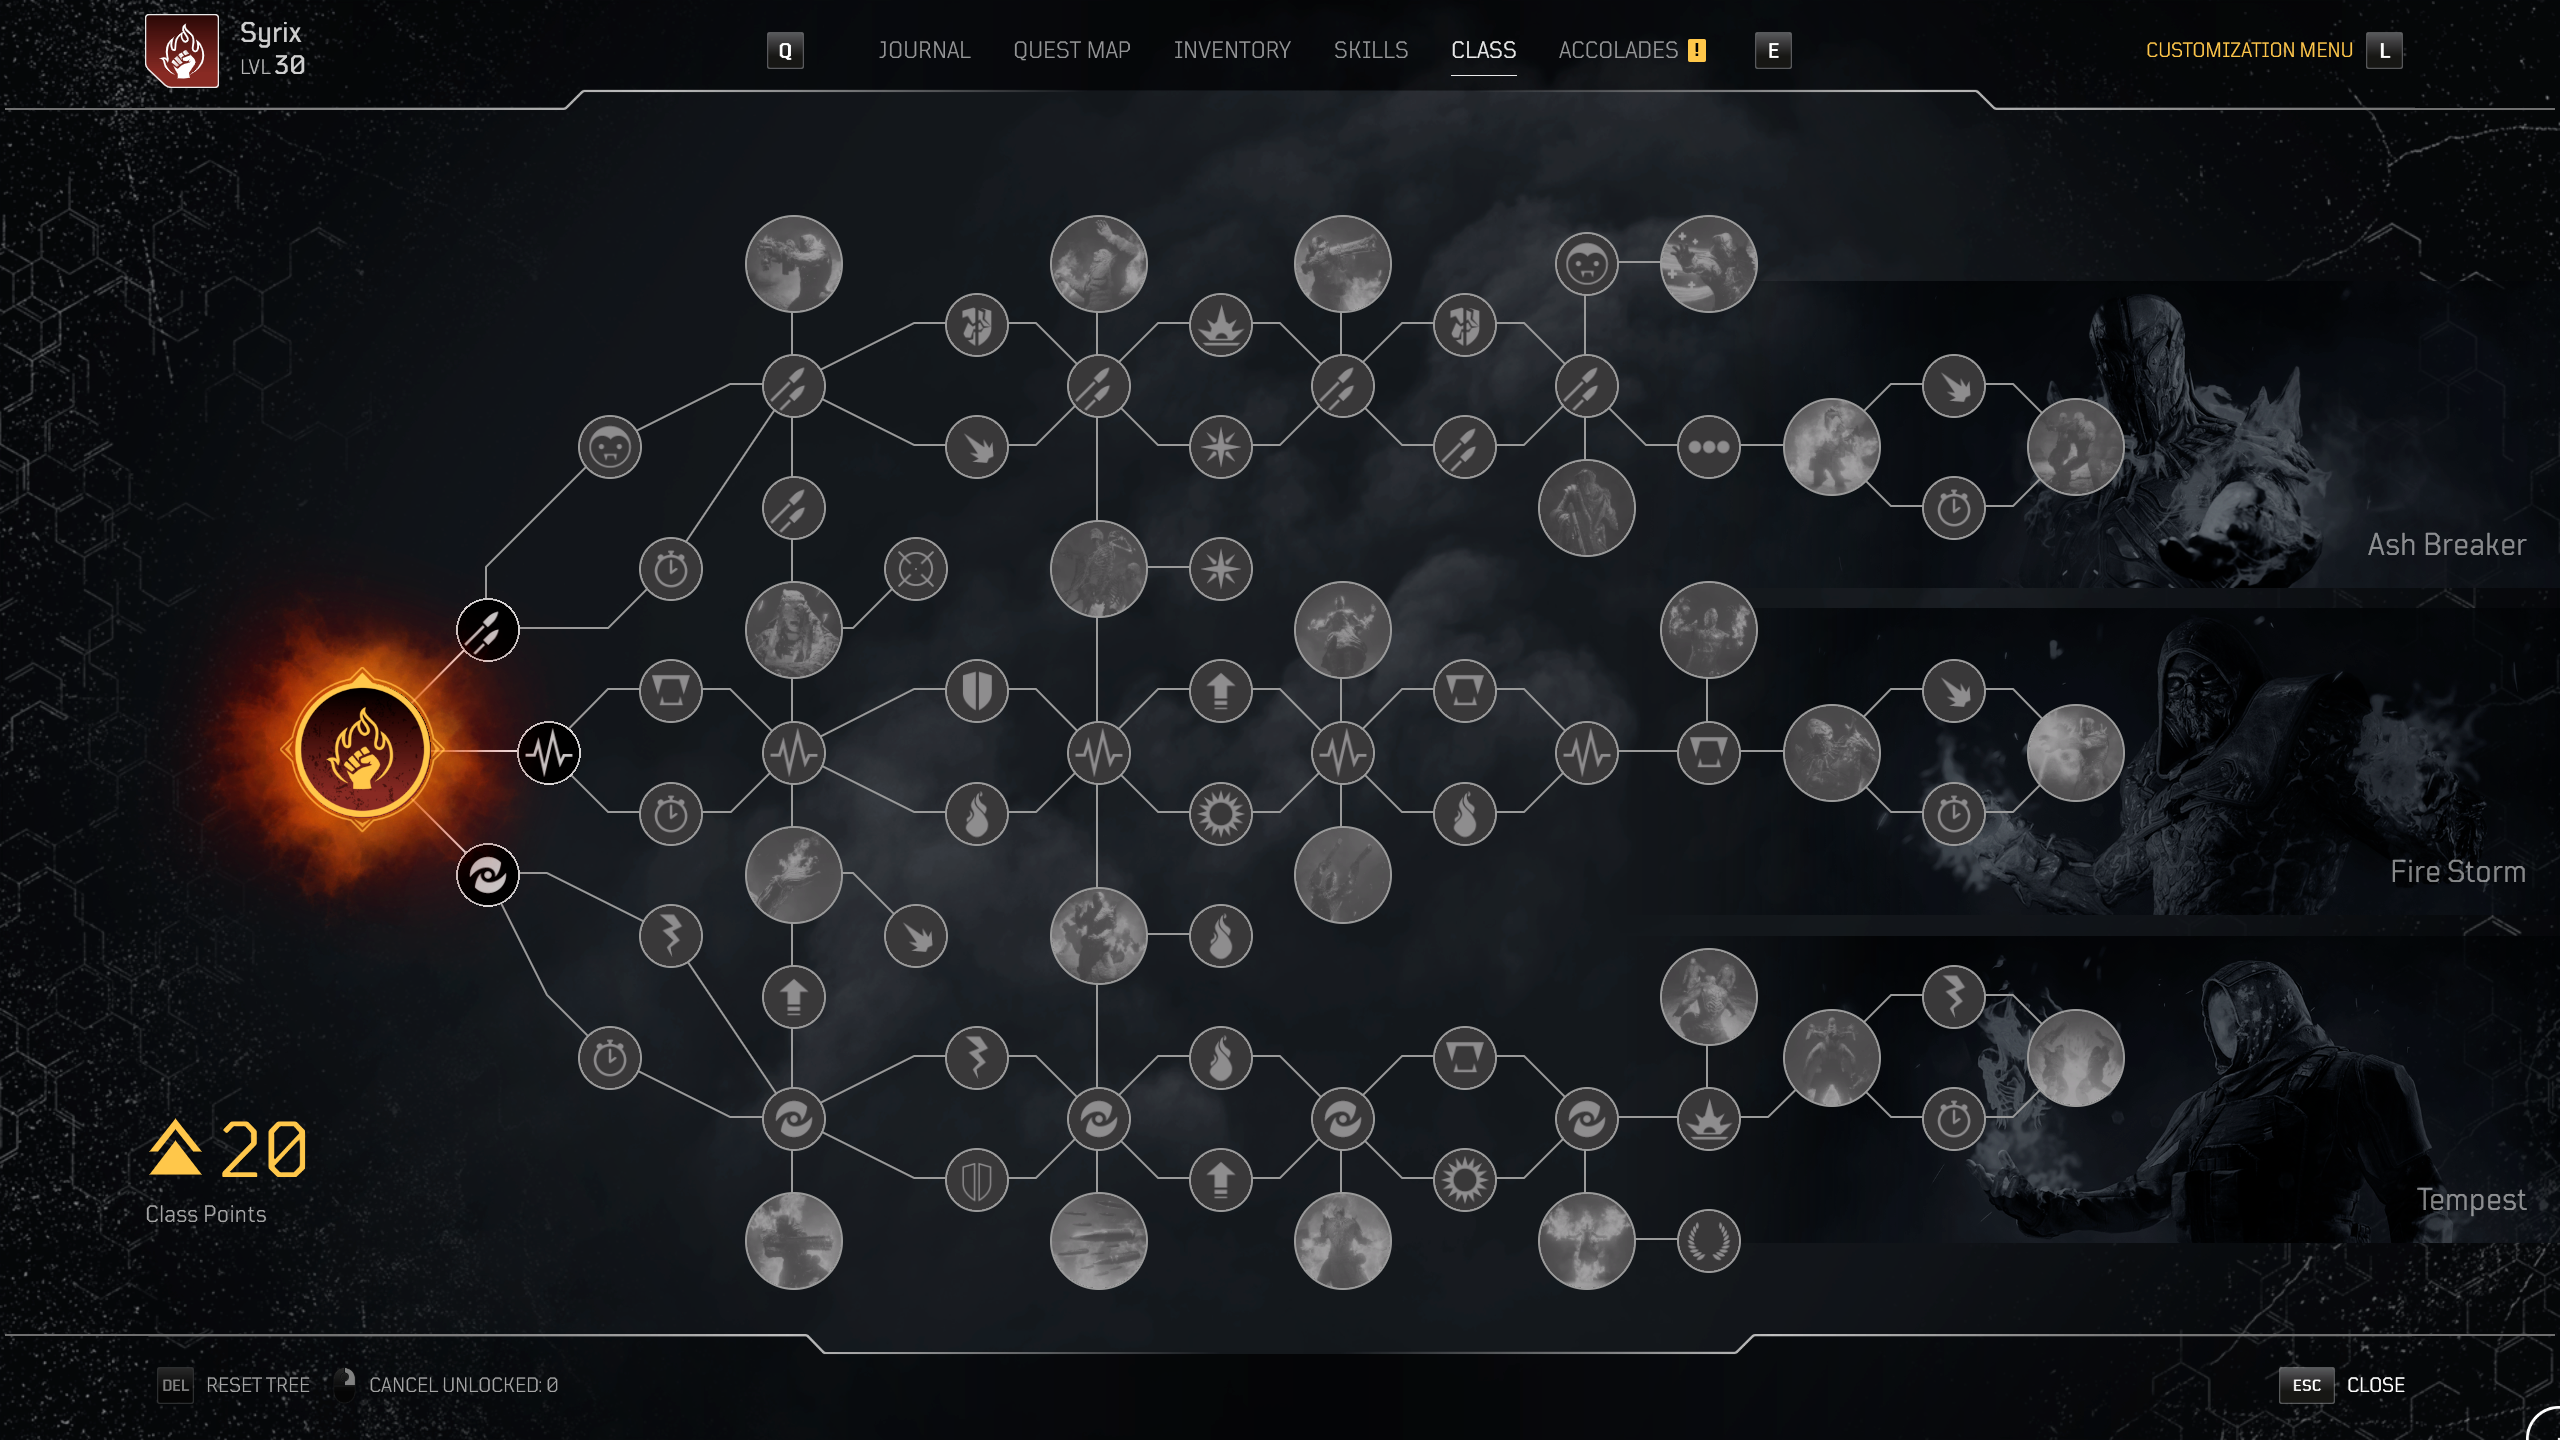
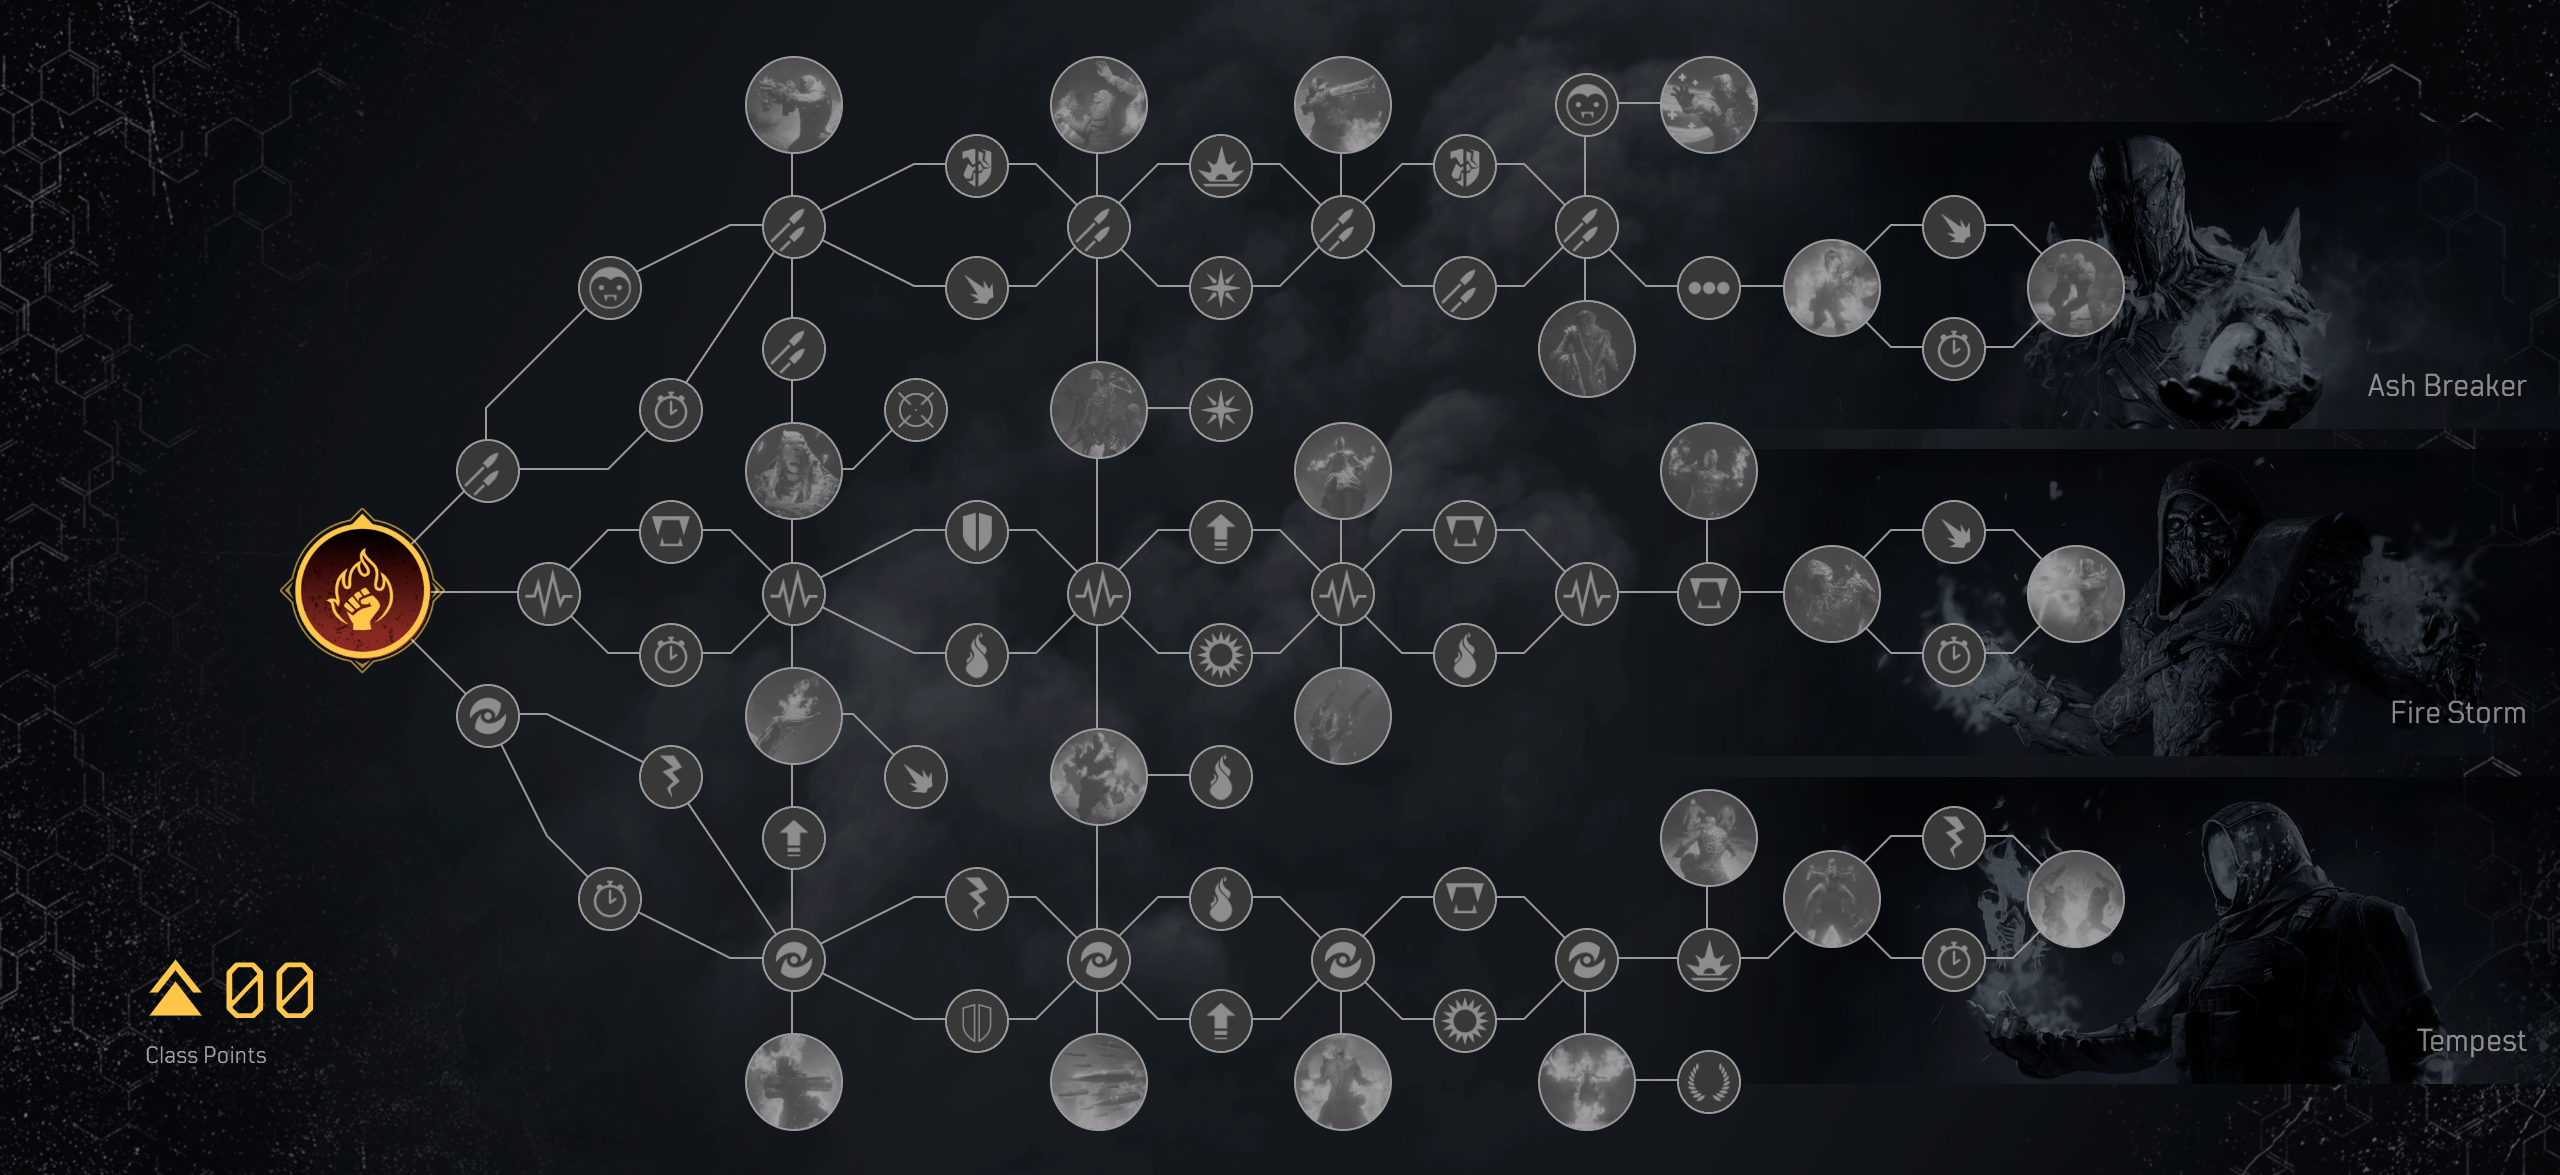
Implement skill tree and add images

diff --git a/pages/posts/new.js b/pages/posts/new.js
@@ -67,19 +67,58 @@ class New extends React.Component {
       (classChoice) => classChoice.node_id === skillId
     )[0].prev_nodes;
 
-    let checker = (arr, target) => target.every((v) => arr.includes(v));
+    const nextSkills = classSkills[classChoice].filter(
+      (classChoice) => classChoice.node_id === skillId
+    )[0].next_nodes;
 
-    if (!skills.includes(skillId) && checker(skills, requiredSkills)) {
-      skills.push(skillId);
-    } else if (skillId !== 1) {
-      skills = skills.filter((item) => item != skillId);
+    let checkPrevNodes = (skills, requiredSkills) =>
+      requiredSkills.some((requiredSkill) => skills.includes(requiredSkill));
+
+    let checkNextNodes = (skills, nextSkills) =>
+      nextSkills.every((nextSkill) => !skills.includes(nextSkill));
+
+    if (skillId !== 1) {
+      if (!skills.includes(skillId)) {
+        if (checkPrevNodes(skills, requiredSkills)) {
+          skills.push(skillId);
+        }
+      } else {
+        if (checkNextNodes(skills, nextSkills)) {
+          const index = skills.indexOf(skillId);
+          if (index !== -1) {
+            skills.splice(index, 1);
+          }
+        }
+      }
     }
+
+    // if (!skills.includes(skillId) && checkPrevNodes(skills, requiredSkills)) {
+    //   skills.push(skillId);
+    // } else if (skillId !== 1) {
+    //   skills = skills.filter((item) => item != skillId);
+    // }
+
+    // console.log(skills.includes(skillId));
+    // console.log(checkNextNodes(skills, nextSkills));
+    // console.log(skillId !== 1);
+
+    // if (
+    //   skills.includes(skillId) &&
+    //   checkNextNodes(skills, nextSkills) &&
+    //   skillId !== 1
+    // ) {
+    //   const index = skills.indexOf(skillId);
+    //   if (index !== -1) {
+    //     skills.splice(index, 1);
+    //   }
+    // }
 
     this.setState({ skills });
   }
 
   render() {
     const { classSkills, classChoice } = this.state;
+
     return (
       <PostFull
         pageTitle="Create New Build"

diff --git a/components/SkillNode.js b/components/SkillNode.js
@@ -1,10 +1,16 @@
-const SkillNode = ({ skillNode, onClick }) => {
+const SkillNode = ({ skillNode, onClick, active }) => {
+  const style = {
+    left: skillNode.x,
+    top: skillNode.y
+  }
+
   return (
     <div
-      className={`rounded-full h-24 w-24 flex items-center justify-center bg-gray-500 hover:shadow-md group absolute skill-id-${skillNode.node_id}`}
+      className={`rounded-full h-24 w-24 flex items-center justify-center group absolute skill-id-${skillNode.node_id} inset-0 z-1 skill-node type-${skillNode.type} ${active ? 'active' : ''}`}
       onClick={() => onClick(skillNode.node_id)}
+      style={style}
     >
-      <div className="rounded border-2 border-gray-300 absolute left-20 top-10 transition-opacity opacity-0 group-hover:opacity-100 z-10 bg-black text-white p-5">
+      <div className="rounded border-2 border-gray-300 absolute left-10 top-10 group-hover:block hidden z-10 bg-black text-white p-5">
         <h3 className="mb-2">{skillNode.title}</h3>
         <p>{skillNode.description}</p>
       </div>

diff --git a/styles/globals.scss b/styles/globals.scss
@@ -175,3 +175,25 @@ textarea {
 label {
   display: block;
 }
+
+.skill-node {
+  cursor: pointer;
+
+  &.type-lg {
+    width: 75px;
+    height: 75px;
+  }
+  &.type-sm {
+    width: 34px;
+    height: 34px;
+  }
+  &.type-md {
+    width: 52px;
+    height: 52px;
+  }
+
+  &.active {
+    background: #ffff001a;
+    box-shadow: 0 0 10px 2px #ffd400;
+  }
+}

diff --git a/components/PostFull.js b/components/PostFull.js
@@ -62,6 +62,7 @@ const PostFull = ({
                 key={skillNode.id}
                 skillNode={skillNode}
                 onClick={(event) => toggleSkill(event)}
+                active={postData.skills.includes(skillNode.node_id)}
               />
             ))}
           </SkillTree>
